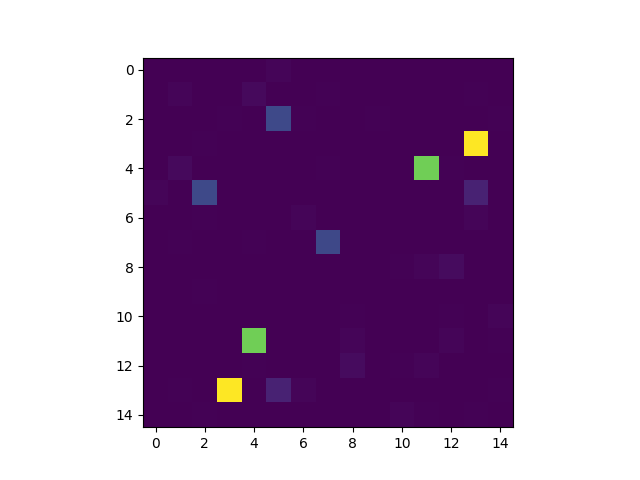
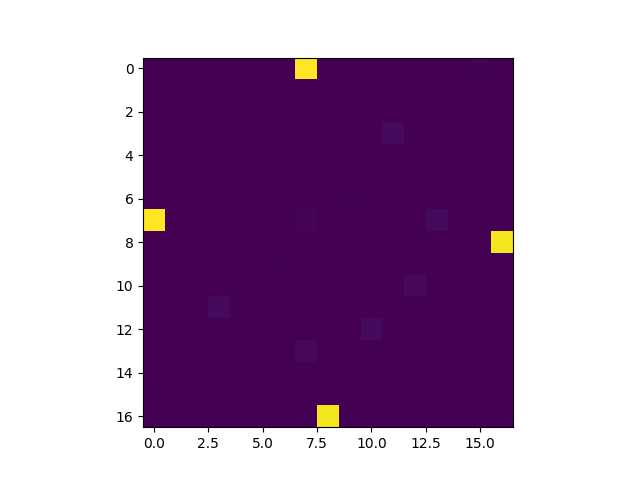
Changes of the tabu search algorithm

diff --git a/lab5/solutions/solutions.py b/lab5/solutions/solutions.py
@@ -69,10 +69,13 @@ class TravelerSalesmanProblemSolution(IntegerRepresentation):
     def set_value(self, swap_first_pos, swap_first_value):
         current_encoding = deepcopy(self.encoding)
         swap_last_value = current_encoding[swap_first_value]
-        swap_last_pos = [i for i in current_encoding if i == swap_first_value][0]
-        current_encoding[swap_first_pos] = swap_first_value
-        current_encoding[swap_last_pos] = swap_last_value
-        current_solution = self.__class__(weights=self.weights, encoding=current_encoding, swap=(swap_first_pos, swap_first_value))
+        swap_last_pos = [i for i in current_encoding if i == swap_first_value]
+        if len(swap_last_pos)>0:
+            swap_last_pos = min(swap_last_pos)
+        if swap_last_value is not swap_first_value:
+            current_encoding[swap_first_pos] = swap_first_value
+            current_encoding[swap_last_pos] = swap_last_value
+            current_solution = self.__class__(weights=self.weights, encoding=current_encoding, swap=(swap_first_pos, swap_first_value))
         return current_solution
 
     def get_size(self) -> int:

diff --git a/lab5/main.py b/lab5/main.py
@@ -5,7 +5,7 @@ from utilities import read_from_resources, plot_matrix
 DEBUG = False
 
 if __name__ == "__main__":
-    weights = read_from_resources("p01.15.291.tsp")
+    weights = read_from_resources("gr17.2085.tsp")
     print(weights)
 
     tabu_search_algorithm = TabuSearchAlgorithm(
@@ -15,7 +15,7 @@ if __name__ == "__main__":
         intensification_threshold_value=10,
         diversification_threshold_value=15,
         diversification_pick_number=5,
-        max_iterations=200,
+        max_iterations=500,
     )
     algorithm_result = tabu_search_algorithm.objective_function()
 
